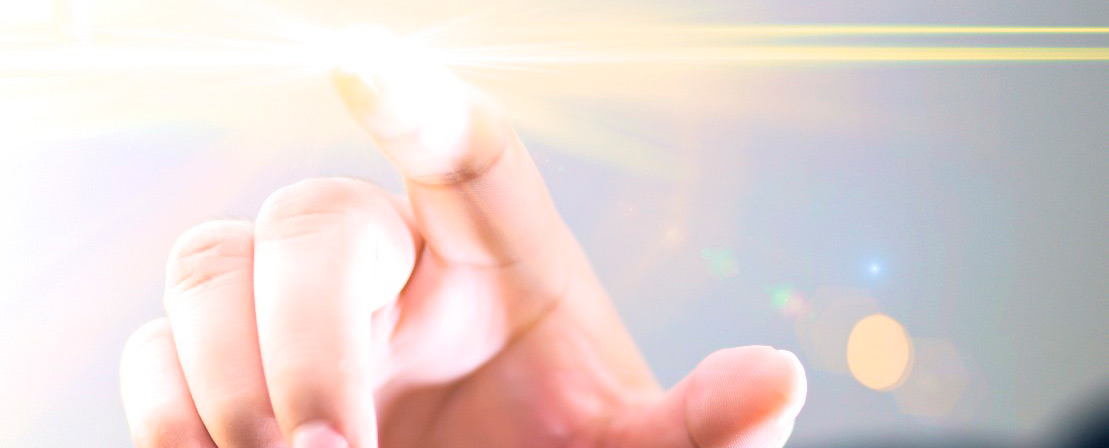
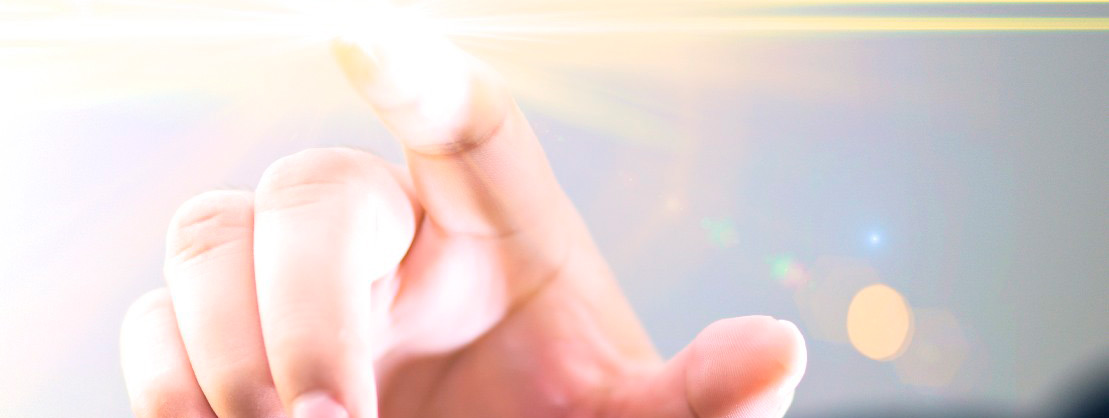
Have the first parallax image in, but working on getting the background to be responsive. Image also cropped terribly. Quality also horrenduous

diff --git a/index.html b/index.html
@@ -53,12 +53,9 @@
 
 </div>
 <section id="home" data-type="background" data-speed="10" class="pages">     
-        <img src="img/1.jpg" />
     </section>   
      
-<section id="about" data-type="background" data-speed="10" class="pages">
-         <article>Simple Parallax Scroll</article>
-</section>              
+<section id="about" data-type="background" data-speed="10" class="pages">          
 
 
 <div class="row-fluid">
@@ -70,6 +67,7 @@
     <p>Whatever your challenge, our hybrid approach (Marketing-Sales-Public Relations) will deliver positive results. </p>
   </div>
 </div>
+</section>    
 
 
 <div class="row-fluid">
@@ -162,6 +160,24 @@
     <!-- Javascript at bottom for faster loading -->
     <script src="http://code.jquery.com/jquery.js"></script>
     <script src="js/bootstrap.min.js"></script>
+
+    <script type="text/javascript">
+    $(document).ready(function(){
+    $('section[data-type="background"]').each(function(){
+        var $bgobj = $(this); // assigning the object
+     
+        $(window).scroll(function() {
+            var yPos = -($window.scrollTop() / $bgobj.data('speed')); 
+             
+            // Put together our final background position
+            var coords = '50% '+ yPos + 'px';
+ 
+            // Move the background
+            $bgobj.css({ backgroundPosition: coords });
+        }); 
+    });    
+}); 
+    </script>
 
 
 

diff --git a/css/main.css b/css/main.css
@@ -30,21 +30,12 @@ p {
 	font-size: 1.5em;
 	color: #4D4D4D;
 	line-height: 2em;
+	margin-top: 50px;
 }
 
 img {
 	width: 100%;
 }
-
-
-mark {
-	margin-bottom: 20px;
-}
-
-section {
-	clear: both;
-}
-
 
 @media screen and (max-width: 640px) {
 	.row-fluid {
@@ -55,7 +46,7 @@ section {
 
 
 #home { 
-background: url(home-bg.jpg) 50% 0 repeat fixed; min-height: 1000px;
+background: url("../img/1.jpg") 50% 0 no-repeat fixed; min-height: 418px;
 }
  
 #about { 
